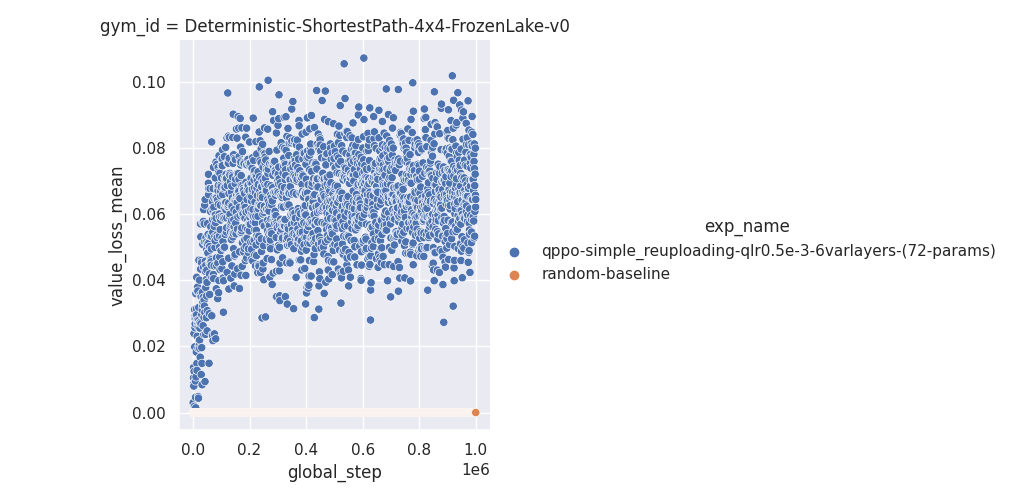
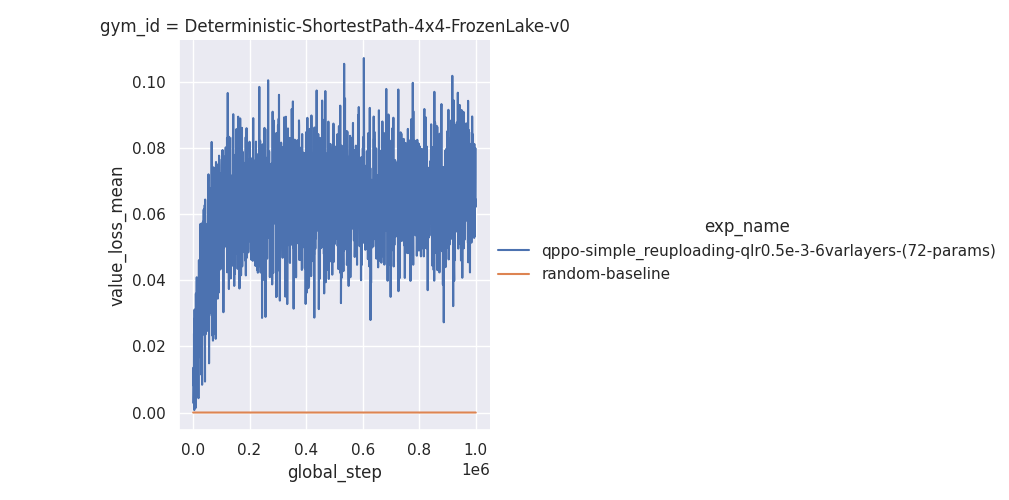
plot tests

Changed region(s): [[0.1843, 0.12, 0.5223, 0.84], [0.4916, 0.54, 0.5223, 0.57]]

diff --git a/src/plot.py b/src/plot.py
@@ -625,12 +625,12 @@ def plot_test_avg3(results_dir, plot_dir, gym_id, exp_names, seeds, stepsize, ma
     # plotting
     sns.relplot(
         data=up_res,
-        kind="scatter",
+        kind="line",
         x="global_step",
         y="value_loss_mean",
         col="gym_id",
         hue="exp_name",
-        #errorbar="sd"
+        errorbar="sd"
         # style="exp_name",
     )
     plot_dir2 = os.path.join(plot_dir, "value_loss_by_exp_name.png")
@@ -644,7 +644,7 @@ def plot_test_avg3(results_dir, plot_dir, gym_id, exp_names, seeds, stepsize, ma
         y="value_loss_seed_mean",
         col="exp_name",
         hue="seed",
-        #errorbar="sd"
+        errorbar="sd"
         # style="seed",
     )
     plot_dir2 = os.path.join(plot_dir, "value_loss_by_seed.png")
